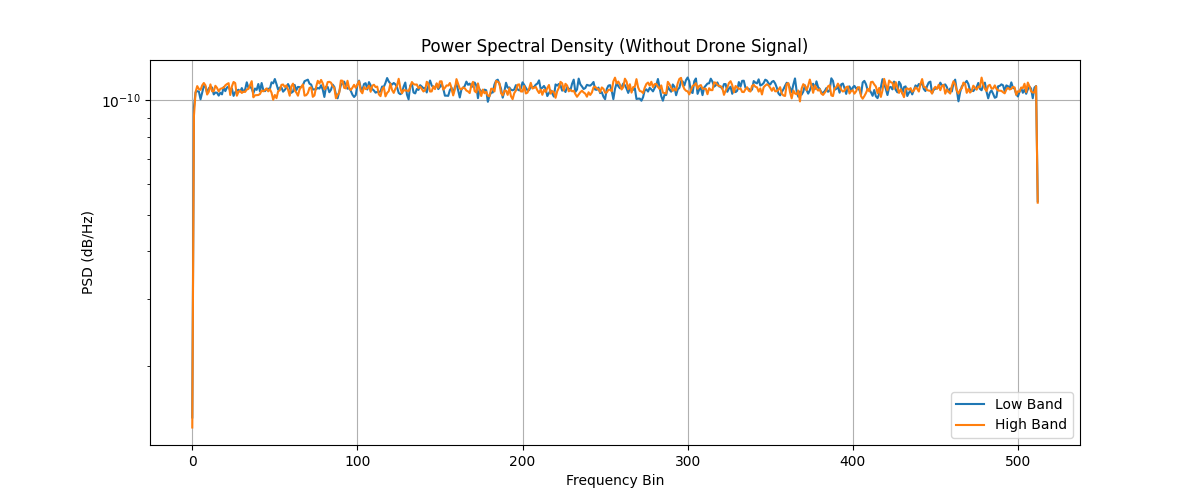
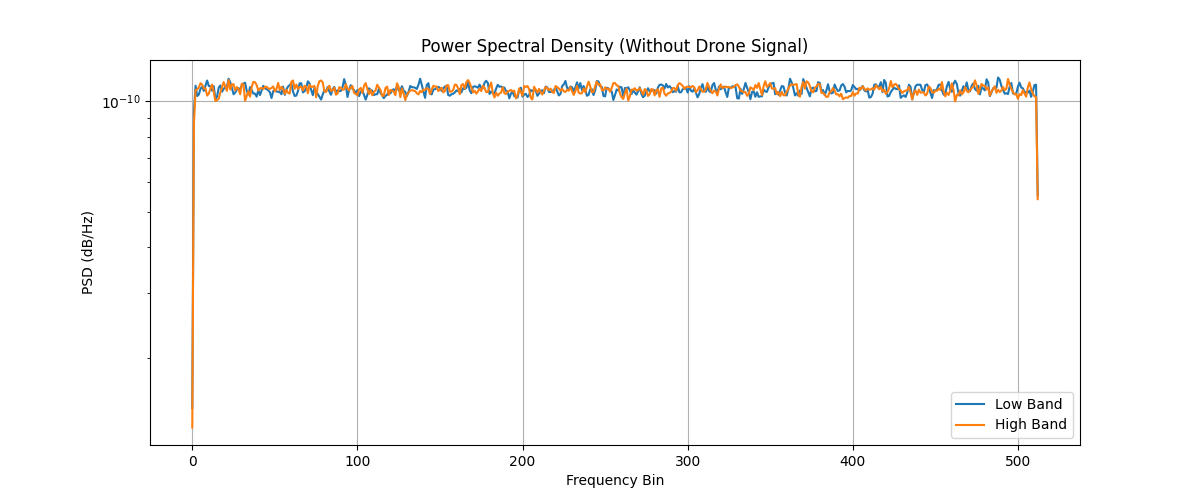
fixed script.py

Changed region(s): [[0.0925, 0.15, 0.8942, 0.21]]

diff --git a/script.py b/script.py
@@ -109,17 +109,21 @@ def configure_sdr(center_freq=2.4e9, sample_rate=30.72e6, rx_buffer_size=800000,
     except Exception as e:
         print(f"Error connecting to SDR: {e}")
         return None
-
+def moving_average_filter(data, window_size=5):
+    """
+    Applies a moving average filter (FIR filter with uniform weights)
+    to smooth the input data.
+    """
+    return np.convolve(data, np.ones(window_size)/window_size, mode='valid')
 def acquire_and_process_data(sdr, fs, t_seg, n_per_seg, batch_size=5):
     """
-    Acquire data from the SDR, split it into two halves to simulate low and high bands,
-    and extract PSD-based features.
+    Acquire data from the SDR, apply a moving average filter,
+    split it into two halves to simulate low and high bands, and extract PSD-based features.
     
     Note: This function assumes that the SDR returns at least 2*n_samples samples,
     so that the first half represents the low band and the second half the high band.
     """
-    # Number of samples per band
-    n_samples = int(t_seg/1000 * fs)
+    n_samples = int(t_seg / 1000 * fs)
     processed_features = []
     
     for i in tqdm(range(batch_size), desc="Acquiring data batches"):
@@ -132,17 +136,22 @@ def acquire_and_process_data(sdr, fs, t_seg, n_per_seg, batch_size=5):
         else:
             raw_data = raw_data[:total_required]
         
-        # Split into low and high band signals (using absolute values)
+        # Split into low and high band signals (take absolute value)
         low_band = np.abs(raw_data[:n_samples])
-        high_band = np.abs(raw_data[n_samples:2*n_samples])
+        high_band = np.abs(raw_data[n_samples:2 * n_samples])
+        
+        # *** Apply moving average filter for consistency with training ***
+        low_band_filtered = moving_average_filter(low_band, window_size=5)
+        high_band_filtered = moving_average_filter(high_band, window_size=5)
         
         # Extract combined PSD features from both bands
-        features = extract_dronerf_features(low_band, high_band, fs, n_per_seg, feat_name=feat_name, to_norm=True)
+        features = extract_dronerf_features(low_band_filtered, high_band_filtered, fs, n_per_seg, feat_name=feat_name, to_norm=True)
         processed_features.append(features)
         
         time.sleep(0.1)
     
     return np.array(processed_features)
+
 
 def predict_drone_type(model, features):
     """Predict drone presence using the trained model."""

diff --git a/drone_test.py b/drone_test.py
@@ -76,7 +76,12 @@ def generate_fake_rf_signal(fs, duration_ms, carrier_freq=1e6, snr_db=20, drone_
     noise_high = np.sqrt(noise_power / 2) * (np.random.randn(num_samples) + 1j * np.random.randn(num_samples))
 
     return base_signal_low + noise_low, base_signal_high + noise_high
-
+def moving_average_filter(data, window_size=5):
+    """
+    Applies a moving average filter (FIR filter with uniform weights)
+    to smooth the input data.
+    """
+    return np.convolve(data, np.ones(window_size)/window_size, mode='valid')
 def acquire_and_process_data_fake(fs, t_seg, n_per_seg, batch_size=5, drone_present=True):
     """
     Generate and process synthetic RF data.
@@ -90,6 +95,8 @@ def acquire_and_process_data_fake(fs, t_seg, n_per_seg, batch_size=5, drone_pres
     processed_features = []
     for _ in tqdm(range(batch_size), desc="Generating data batches"):
         raw_low, raw_high = generate_fake_rf_signal(fs, t_seg, drone_present=drone_present)
+        raw_high = moving_average_filter(raw_high, window_size=5)
+        raw_low = moving_average_filter(raw_low, window_size=5)
         features = extract_dronerf_features(np.abs(raw_low), np.abs(raw_high), fs, n_per_seg, feat_name='SPEC', to_norm=True)
         processed_features.append(features)
     return np.array(processed_features)

diff --git a/nondrone_test.py b/nondrone_test.py
@@ -70,7 +70,12 @@ def generate_fake_rf_signal(fs, duration_ms, carrier_freq=1e6, snr_db=20, drone_
     noise_high = np.sqrt(noise_power / 2) * (np.random.randn(num_samples) + 1j * np.random.randn(num_samples))
 
     return base_signal_low + noise_low, base_signal_high + noise_high
-
+def moving_average_filter(data, window_size=5):
+    """
+    Applies a moving average filter (FIR filter with uniform weights)
+    to smooth the input data.
+    """
+    return np.convolve(data, np.ones(window_size)/window_size, mode='valid')
 def acquire_and_process_data_fake(fs, t_seg, n_per_seg, batch_size=5, drone_present=True):
     """
     Generate and process synthetic RF data.
@@ -84,6 +89,8 @@ def acquire_and_process_data_fake(fs, t_seg, n_per_seg, batch_size=5, drone_pres
     processed_features = []
     for _ in tqdm(range(batch_size), desc="Generating data batches"):
         raw_low, raw_high = generate_fake_rf_signal(fs, t_seg, drone_present=drone_present)
+        raw_high = moving_average_filter(raw_high, window_size=5)
+        raw_low = moving_average_filter(raw_low, window_size=5)
         features = extract_dronerf_features(np.abs(raw_low), np.abs(raw_high), fs, n_per_seg, feat_name='SPEC', to_norm=True)
         processed_features.append(features)
     return np.array(processed_features)
